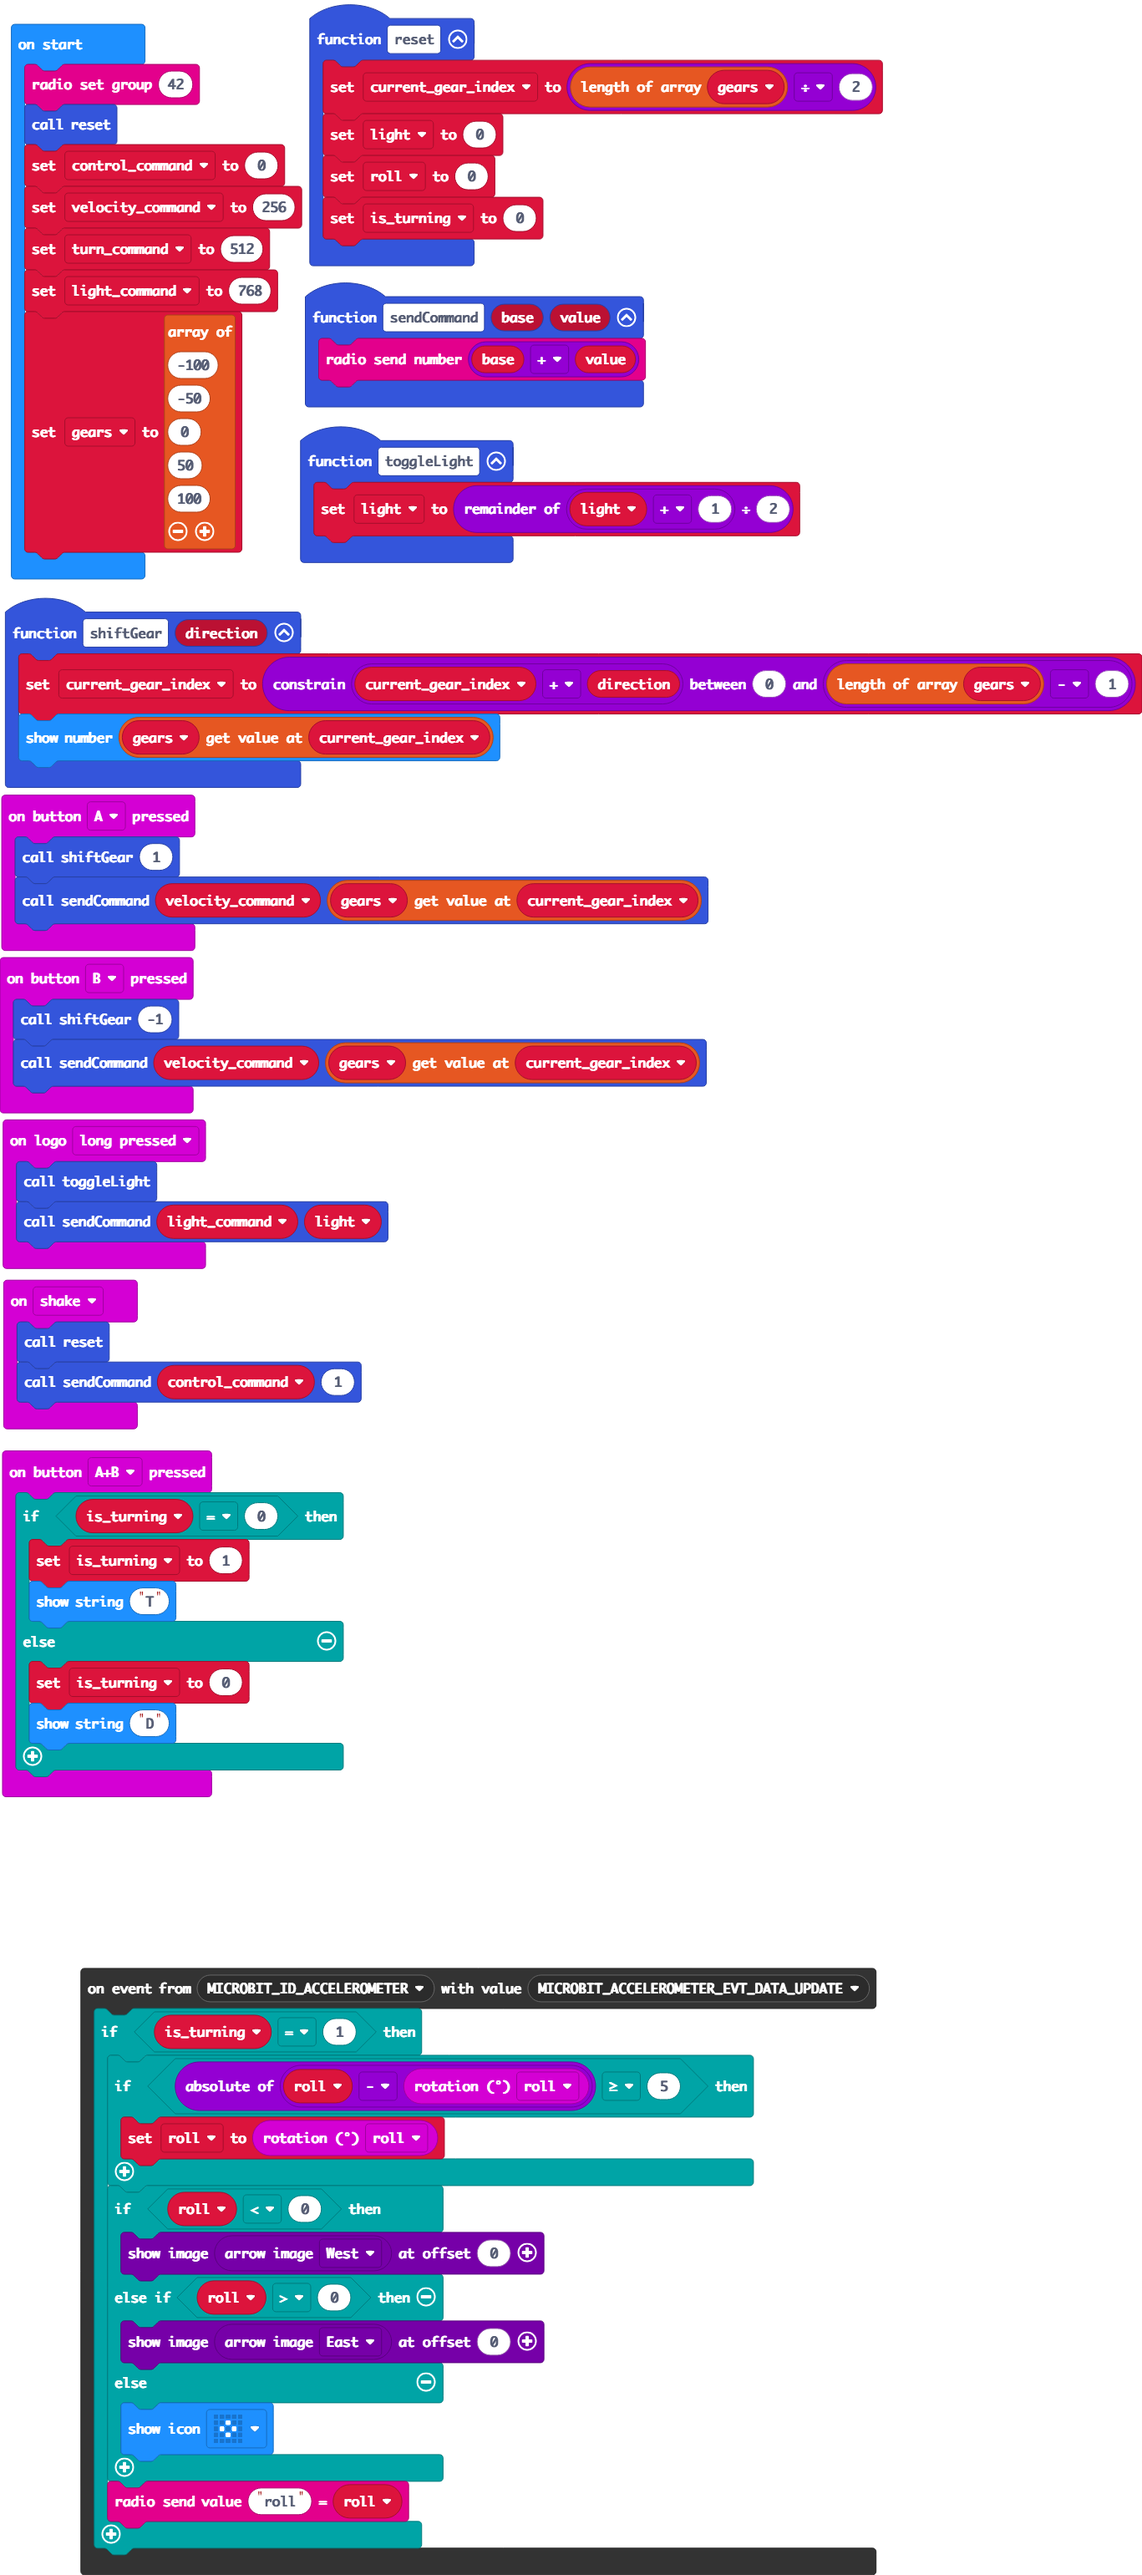
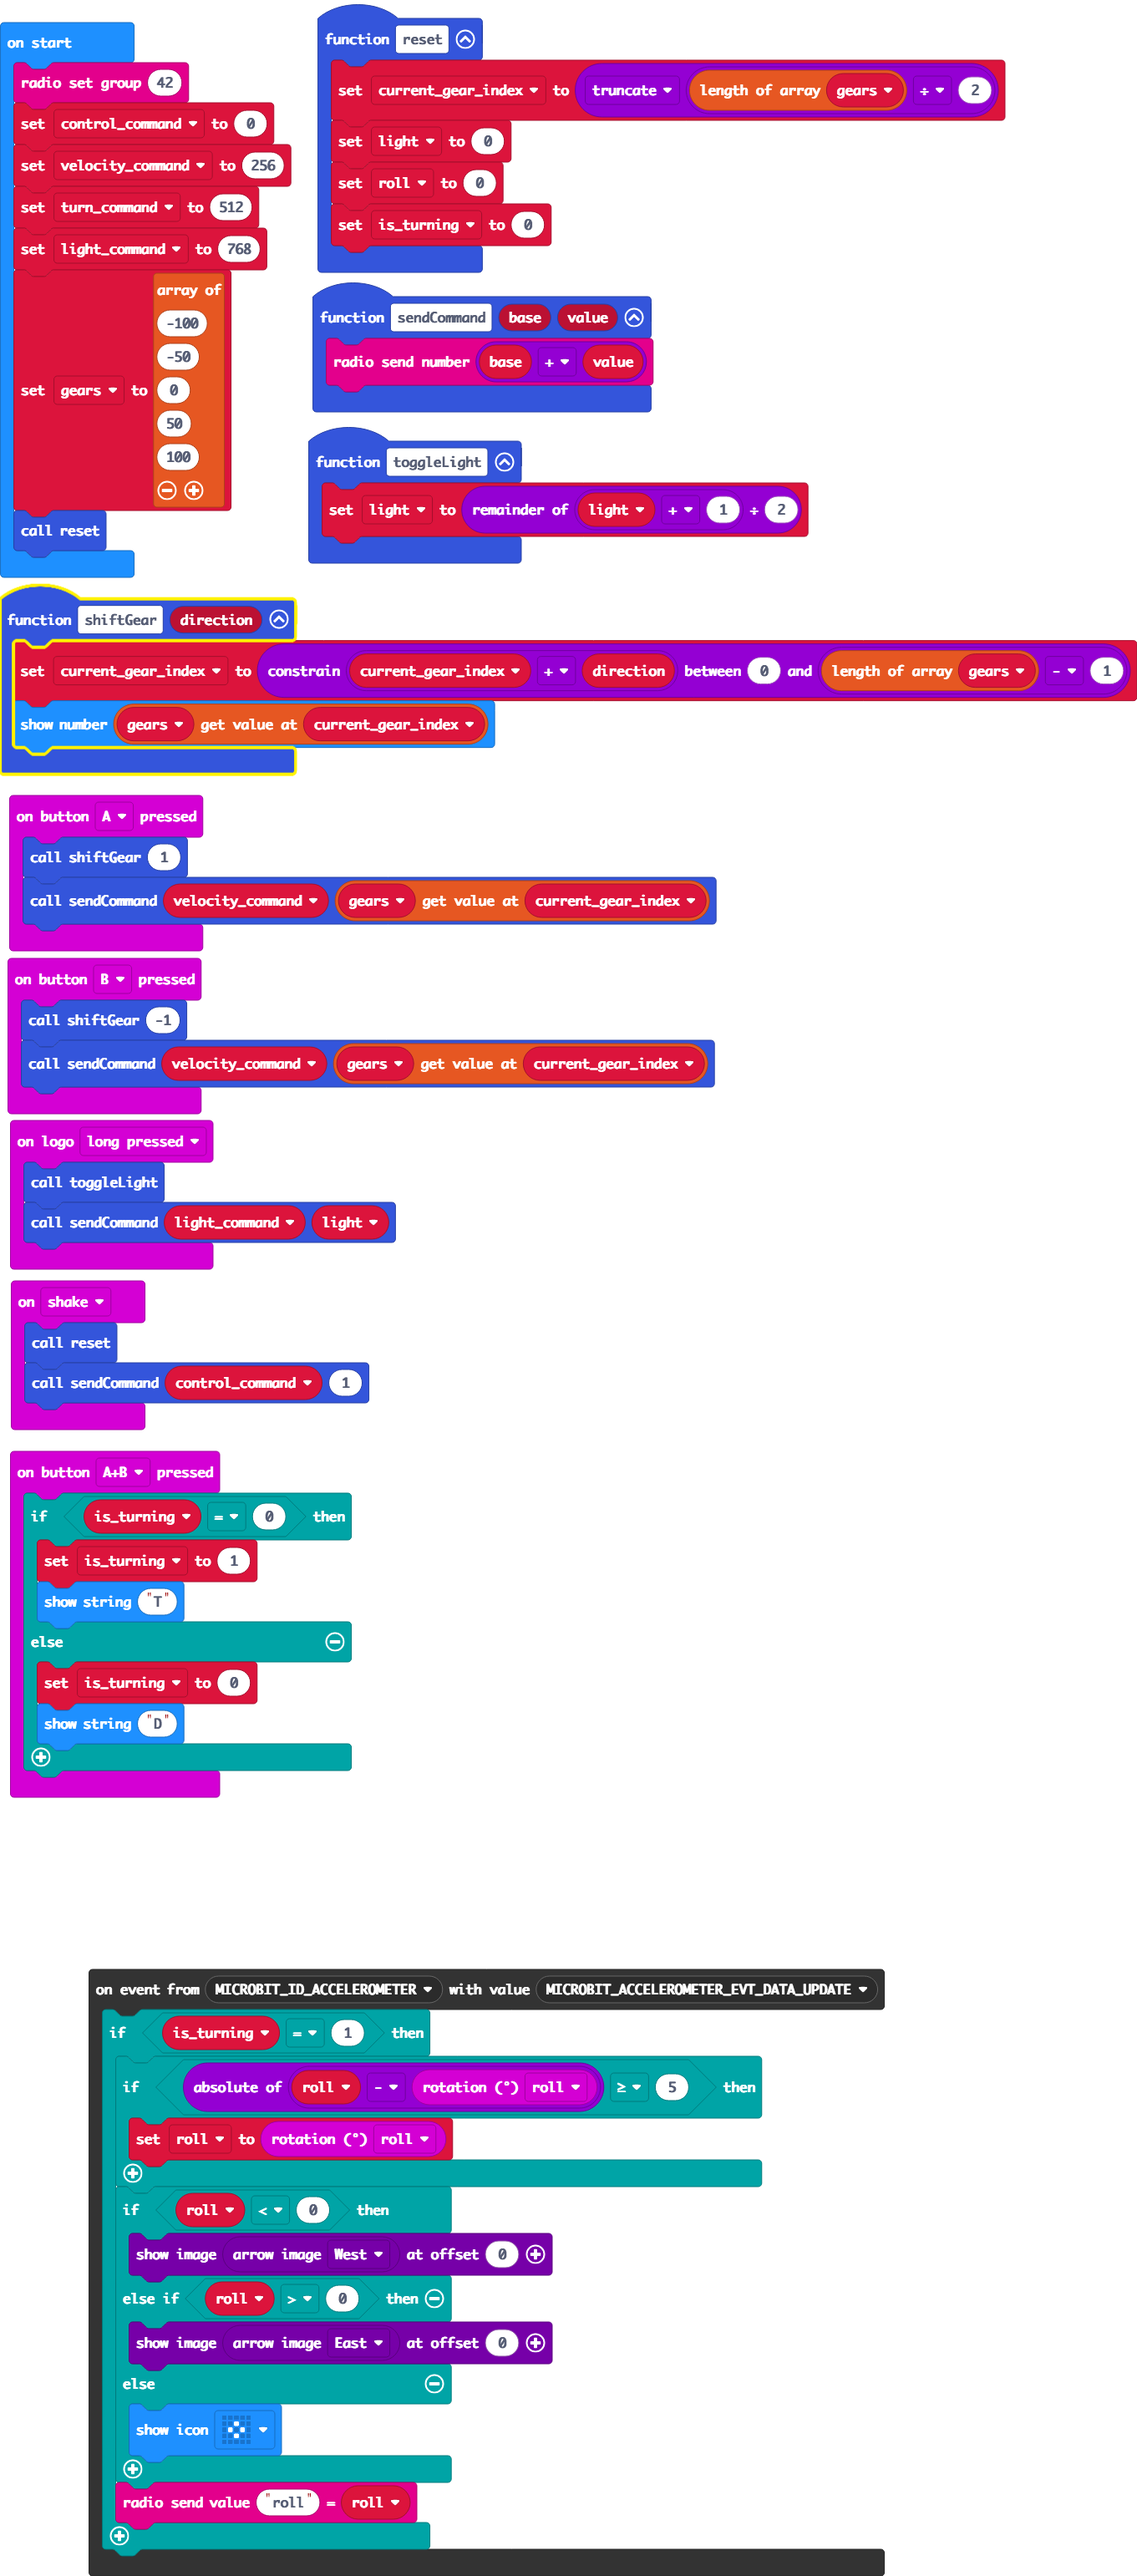
fix indexing

diff --git a/main.ts b/main.ts
@@ -49,7 +49,7 @@ input.onGesture(Gesture.Shake, function () {
     sendCommand(control_command, 1)
 })
 function reset () {
-    current_gear_index = gears.length / 2
+    current_gear_index = Math.trunc(gears.length / 2)
     light2 = 0
     roll = 0
     is_turning = 0
@@ -63,7 +63,6 @@ let light_command = 0
 let velocity_command = 0
 let control_command = 0
 radio.setGroup(42)
-reset()
 control_command = 0
 velocity_command = 256
 let turn_command = 512
@@ -75,3 +74,4 @@ gears = [
 50,
 100
 ]
+reset()
